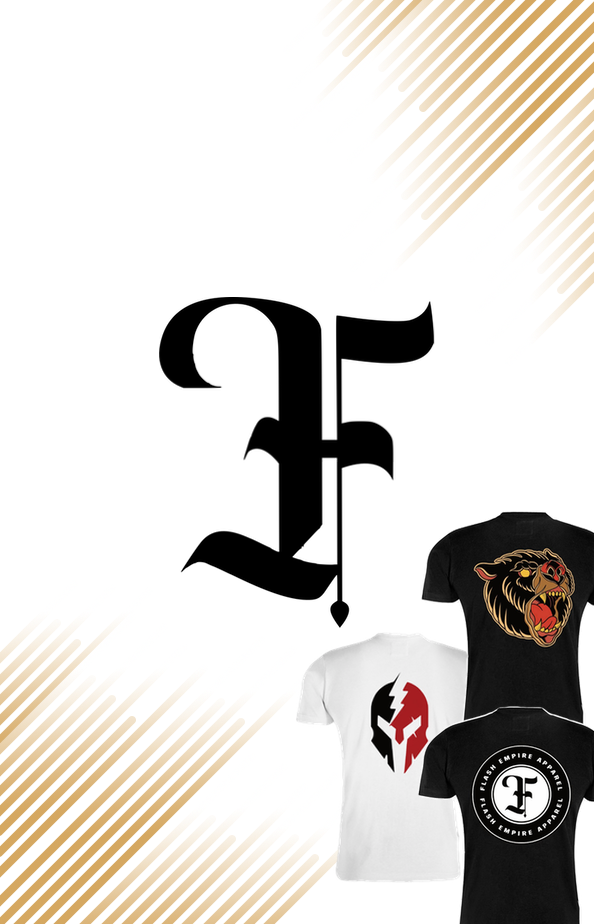
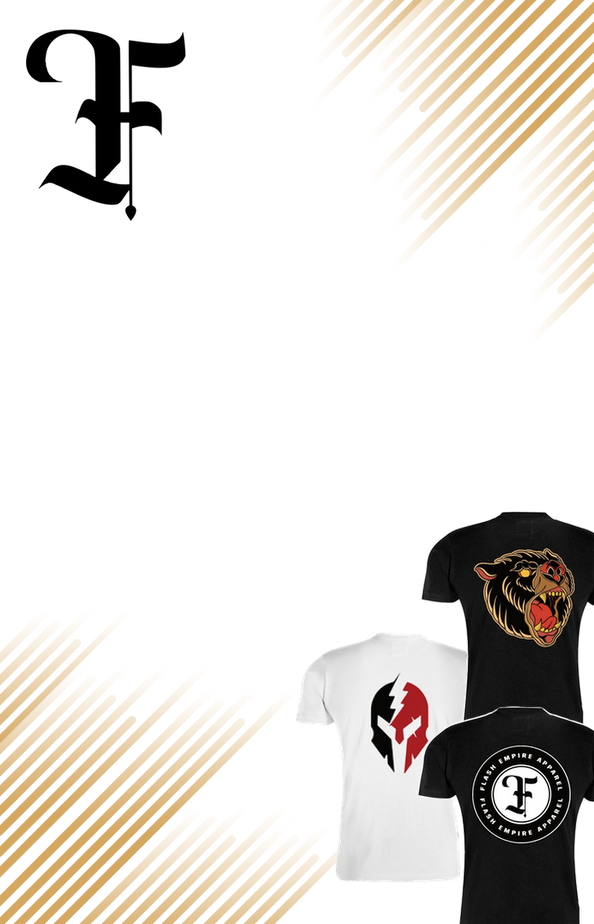
added new background image for smaller screens, modified styles for smaller screens.

Changed region(s): [[0.2424, 0.303, 0.7273, 0.697], [0.0303, 0.0303, 0.3333, 0.2424]]

diff --git a/static/css/base.css b/static/css/base.css
@@ -85,9 +85,9 @@ body {
 .hover-underline-animation {
     display: inline-block;
     position: relative;
-  }
-  
-  .hover-underline-animation::after {
+}
+
+.hover-underline-animation::after {
     content: '';
     position: absolute;
     width: 100%;
@@ -98,12 +98,12 @@ body {
     background-color: #A40303;
     transform-origin: bottom right;
     transition: transform 0.25s ease-out;
-  }
-  
-  .hover-underline-animation:hover::after {
+}
+
+.hover-underline-animation:hover::after {
     transform: scaleX(1);
     transform-origin: bottom left;
-  }
+}
 
 .shop-now-button:active,
 .shop-now-button:focus,
@@ -129,7 +129,7 @@ body {
     transform: skew(-14deg, 0deg);
     padding: 2px 3px;
     width: 70px;
-    }
+}
 
 #sale:hover {
     background-color: #D5A761;
@@ -141,9 +141,9 @@ body {
 
 /* Slightly larger container on xl screens */
 @media (min-width: 1200px) {
-  .container {
-    max-width: 80%;
-  }
+    .container {
+        max-width: 80%;
+    }
 }
 
 /* fixed top navbar only on medium and up */
@@ -163,13 +163,14 @@ body {
     .nav-link:hover {
         color: #A40303;
     }
-    
+
 }
 
+/* For screen width of 992px and less  */
 @media (max-width: 992px) {
     .navbar {
         background-color: #000;
-    } 
+    }
 
     .navbar a {
         color: white;
@@ -191,20 +192,36 @@ body {
     body {
         background: url('/media/FLASH-SM-BANNER.png') no-repeat center center fixed;
         background-size: cover;
+        background-position-y: 70px;
     }
 
     #subtitle {
-        margin-top: 80px;
+        margin-top: 320px;
+        border-radius: 3px;
+    }
+
+    #subtitle h1 {
+        font-size: 90px;
     }
 }
 
-/* For screen width 450px  */
+/* For screen width 450px and less  */
 @media (max-width: 450px) {
     #search-bar {
         width: 100%;
     }
 
     body {
-        background-position-y: 170px;
+        background-size: cover;
+        background-position-y: 70px;
+        background-position-x: left;
+    }
+
+    #subtitle {
+        margin-top: 240px;
+    }
+
+    #subtitle h1 {
+        font-size: 3rem;
     }
 }
